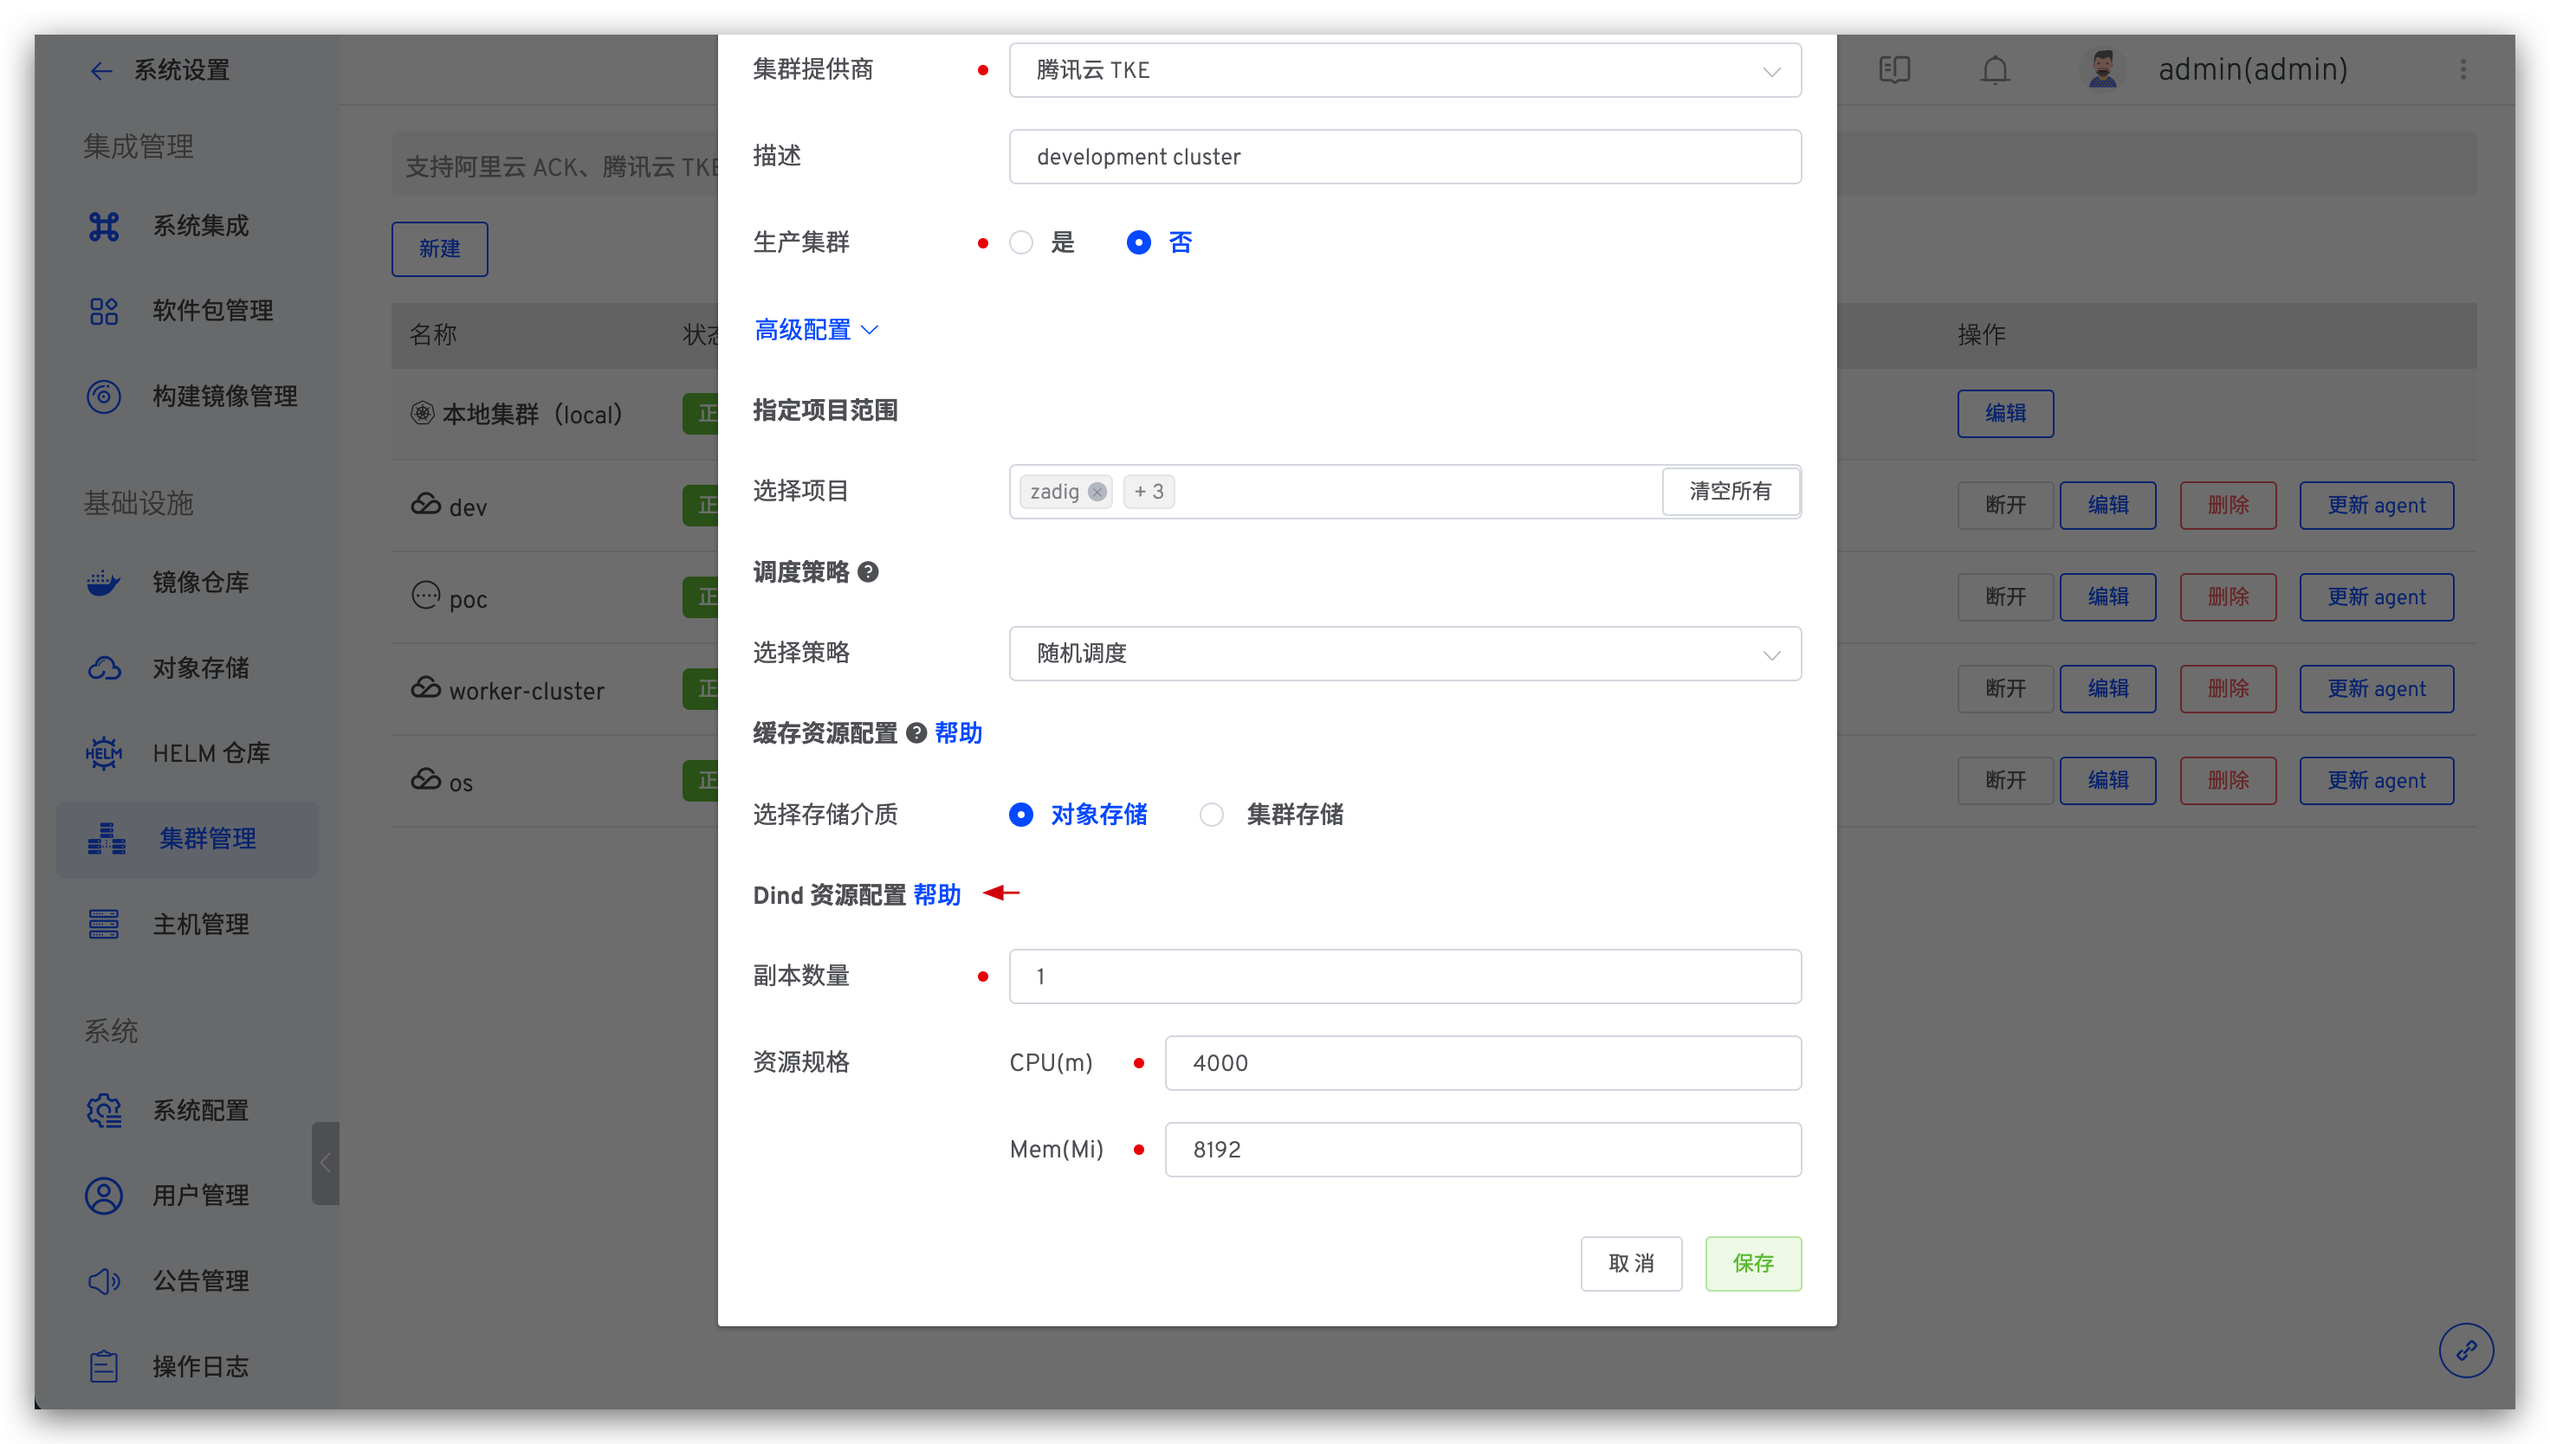
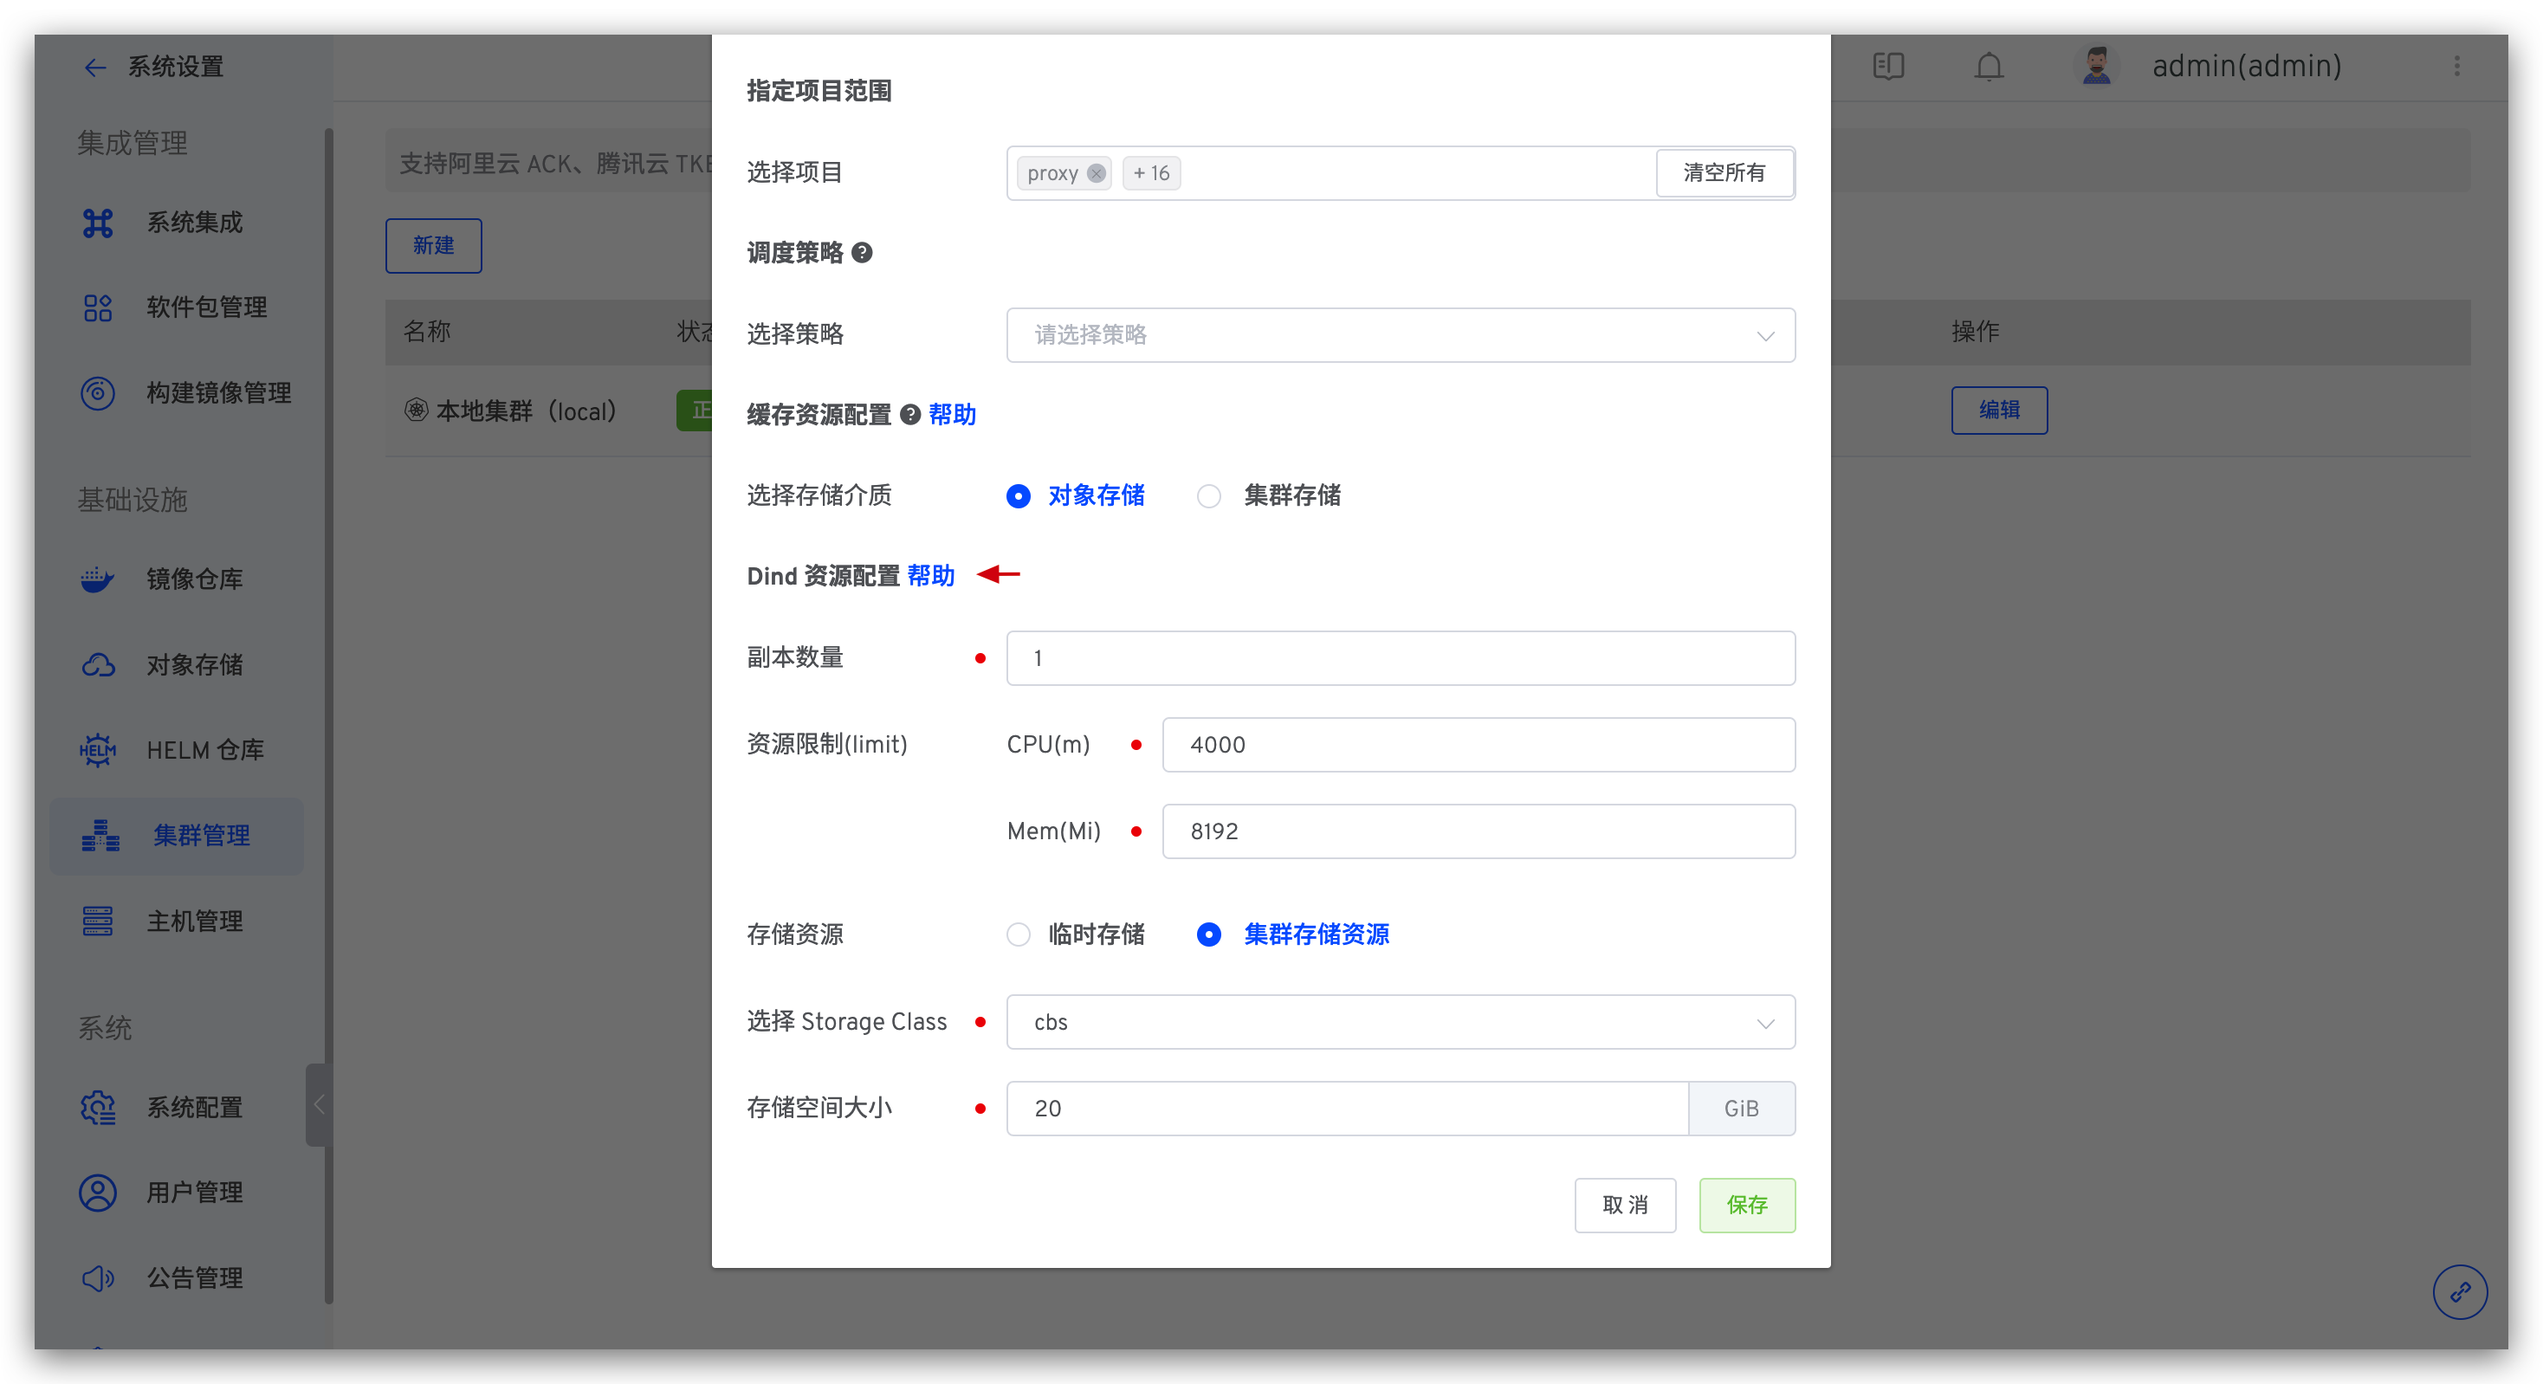
update dind description

diff --git a/dev/12.系统设置/14.cluster_manage.md b/dev/12.系统设置/14.cluster_manage.md
@@ -95,19 +95,12 @@ permalink: /dev/pages/cluster_manage/
 若修改了集群的缓存资源配置（比如将`对象存储`修改为`集群存储`，或者`动态生成资源`修改为`使用现有存储资源`），则修改之前已缓存的资源在修改后将不再生效，会在新的存储资源下重新开始缓存。
 
 ## Dind 资源配置
-支持为接入的集群配置 Dind 资源规格。
+配置集群的 Dind 资源。
 - `副本数量`：默认为 1，可按需调整。设置多副本后，同一个服务的构建任务会被尽可能调度到同一个 Dind 实例，不同服务的构建任务会被尽可能打散调度到不同的 Dind 实例，避免因单个 Dind 实例承载过多的构建任务而增加失败概率。
-- `资源规格`：CPU 默认为 4000m，Memory 默认为 8192Mi。
+- `资源限制`：CPU 默认为 4000m，Memory 默认为 8192Mi。
+- `存储资源`：可用于存储镜像缓存等。当指定集群存储资源时，选择文件存储类型的 StorageClass 并指定动态生成的存储空间大小。
 
 ![Dind 资源配置](./_images/cluster_update_3.png)
-
-对于本地集群（即 Zadig 安装所在的集群），如果 Zadig 是 [基于 Helm 命令](/dev/install/helm-deploy/) 安装，在[使用 Helm 命令](/dev/install/helm-deploy/)升级时另外加入以下参数即可修改其 Dind 资源配置：
-
-``` bash
---set microservice.dind.replicas=<副本数> \
---set microservice.dind.resources.limits.cpu=<CPU Limit 值> \
---set microservice.dind.resources.limits.memory=<Memory Limit 值>
-```
 
 ## 集群使用
 
